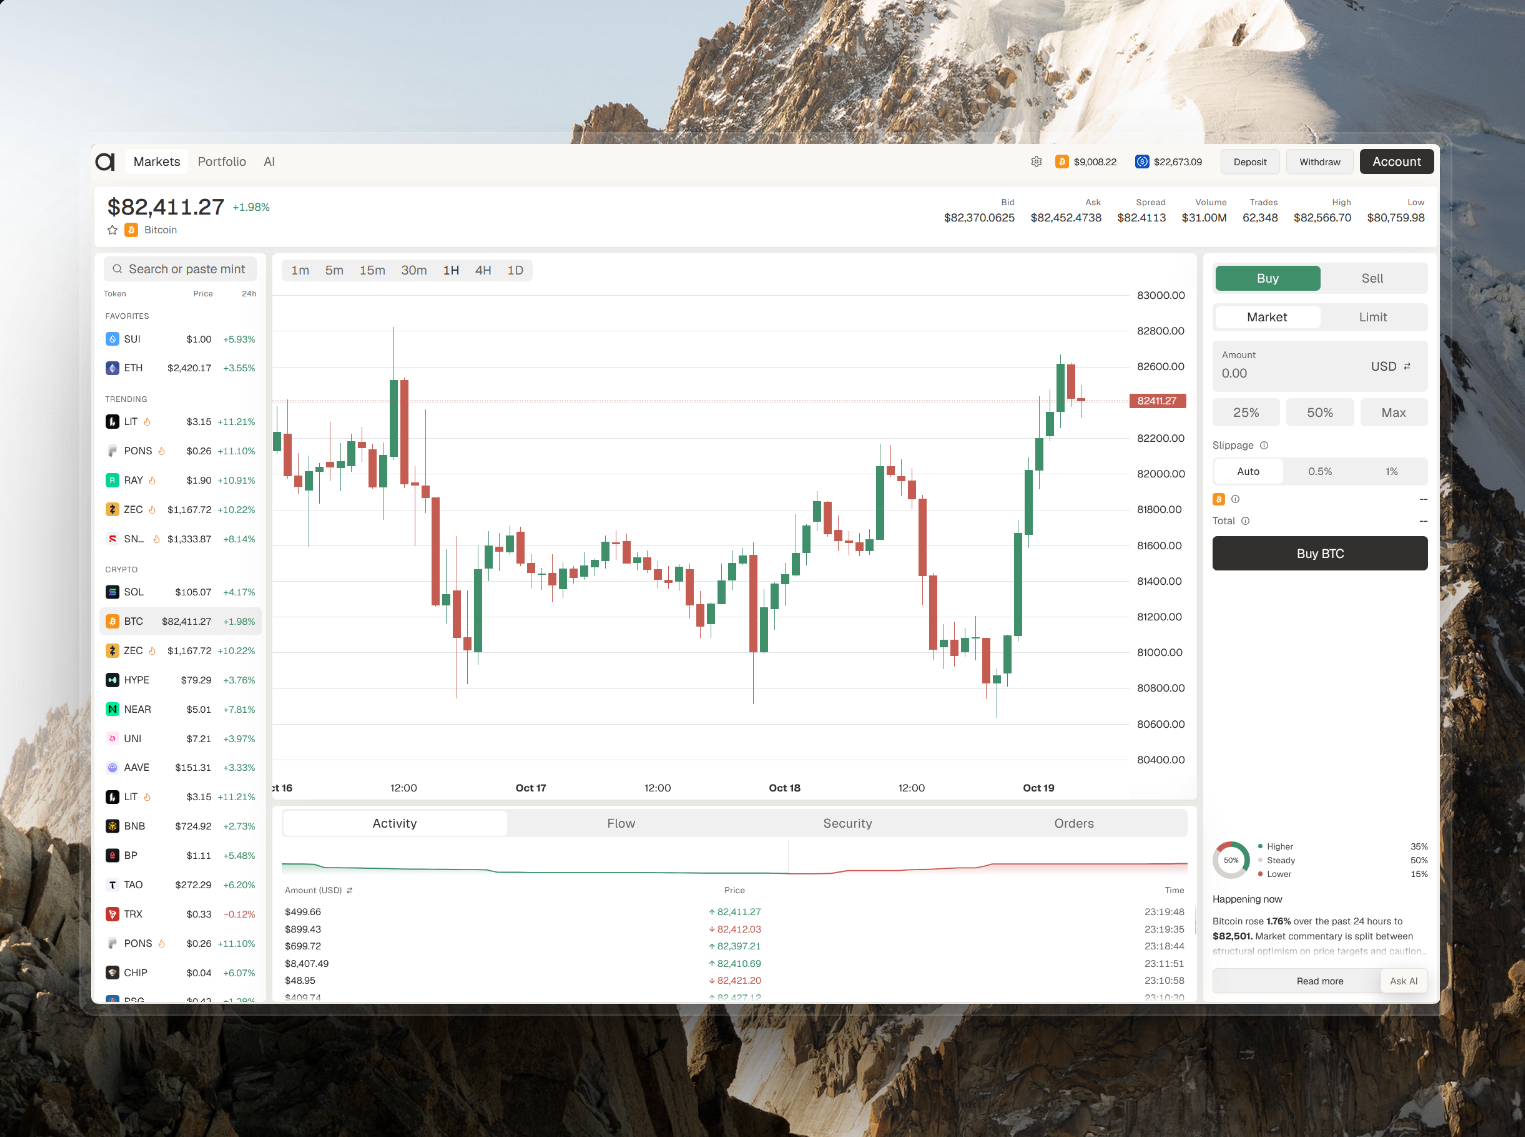
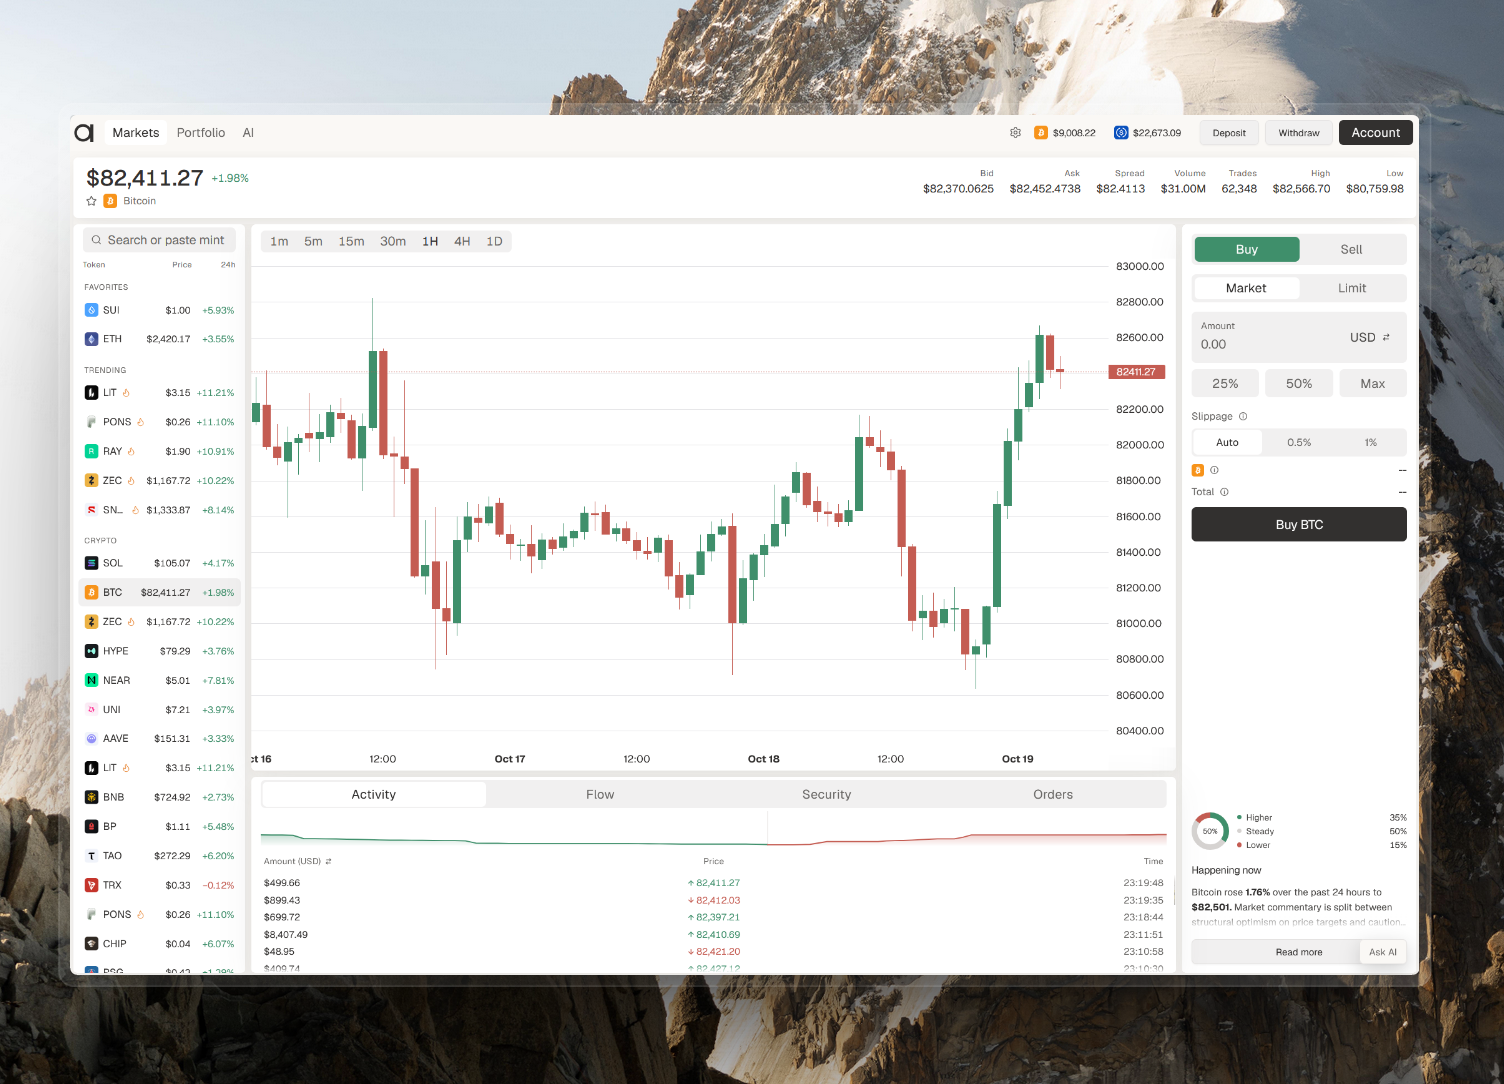
Swap the desktop hero for the latest desk screenshot.

Changed region(s): [[0.0, 0.0, 1.0, 1.0], [0.2812, 0.9437, 0.3125, 1.0]]

diff --git a/styles.css b/styles.css
@@ -597,7 +597,7 @@ blockquote {
 @media (min-width: 900px) {
   .stage {
     width: 100%;
-    aspect-ratio: 1525 / 1137;
+    aspect-ratio: 1504 / 1084;
   }
 }
 
